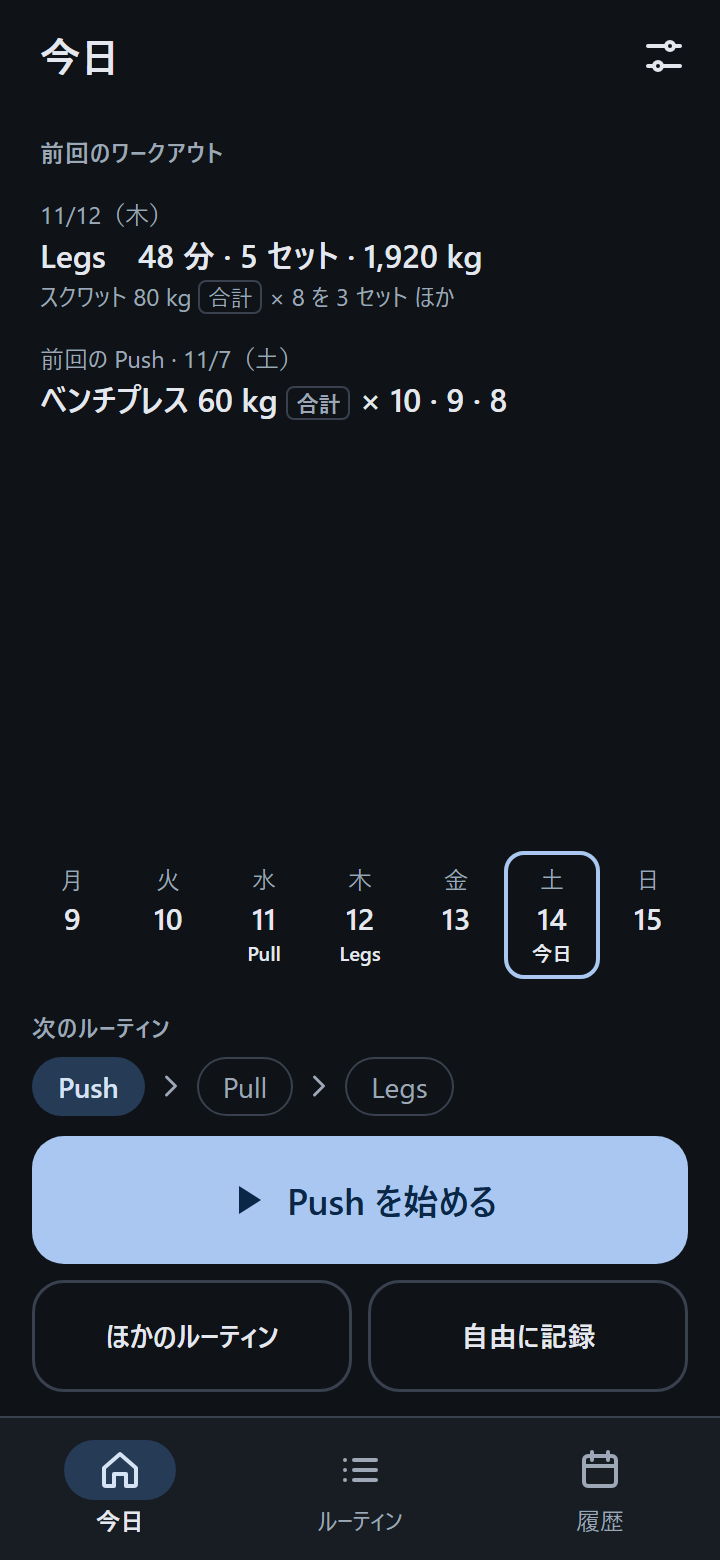
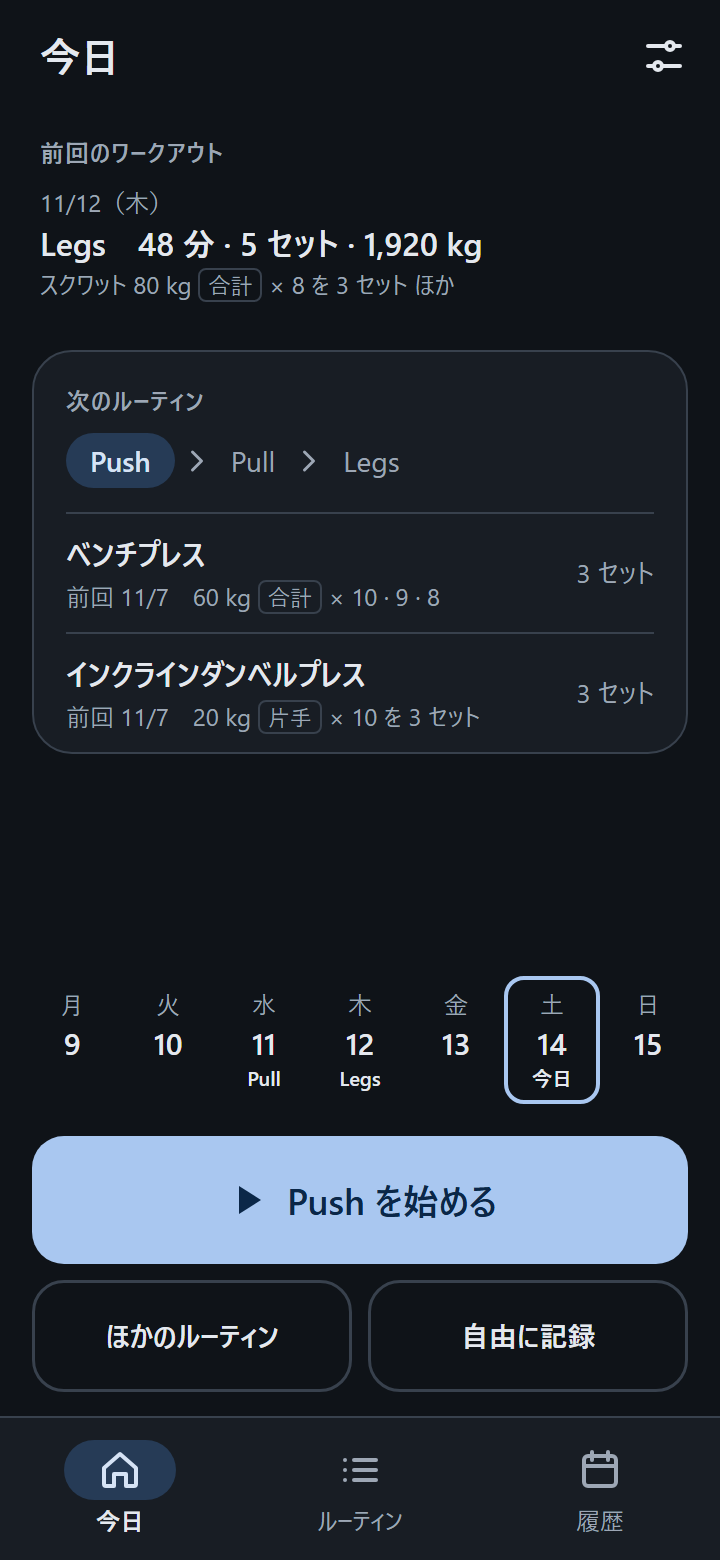
docs(apps/training-log): ホームのデザインに次のルーティンの中身を加える
ホームの空いていた真ん中に、次のルーティンの中身のカードを置いた。
見出しにルーティンの並びを入れ、種目ごとに前回の記録と予定のセット数を出す。
上にあった「前回の Push」と、下の「次のルーティン」の並びは、内容が重なるので外した。
種目が多いとき（先頭の 2 種目と「ほか N 種目」）の画面 C1f を追加した。

diff --git a/apps/training-log/design/canvas/C1f_home_long.dc.html b/apps/training-log/design/canvas/C1f_home_long.dc.html
@@ -1,0 +1,113 @@
+<!doctype html>
+<html lang="ja">
+<head>
+<meta charset="utf-8">
+<title>C ドック — ホーム（種目が多いとき）</title>
+<script src="./support.js"></script>
+</head>
+<body>
+<x-dc>
+<helmet>
+<style>
+*{box-sizing:border-box;margin:0;padding:0}
+button{font:inherit;color:inherit;background:none;border:0;text-align:inherit;cursor:pointer}
+.app{--bg:#F4F6F9;--sf:#FFFFFF;--sf2:#E4E9F0;--fg:#141A22;--sub:#4D5766;--pri:#1F3A5F;--onpri:#FFFFFF;--con:#D6E3F5;--oncon:#0D2440;--line:#C5CCD6;--err:#BA1A1A;--inv:#2B3340;--oninv:#F1F3F7;--invact:#A9C7F0;width:360px;height:780px;overflow:hidden;position:relative;background:var(--bg);color:var(--fg);display:flex;flex-direction:column;font-family:system-ui,-apple-system,'Segoe UI',Roboto,'Noto Sans JP','Yu Gothic UI',sans-serif;font-size:14px;line-height:1.4;font-variant-numeric:tabular-nums}
+.app.dark{color-scheme:dark;--bg:#0F1318;--sf:#181D24;--sf2:#242B34;--fg:#E4E8EE;--sub:#9DA7B5;--pri:#A9C7F0;--onpri:#0B2748;--con:#263B56;--oncon:#D6E3F5;--line:#38414D;--err:#FFB4AB;--inv:#E4E8EE;--oninv:#141A22;--invact:#1F3A5F}
+.scr{flex:1;min-height:0;overflow:hidden;display:flex;flex-direction:column}
+.i{width:24px;height:24px;fill:none;stroke:currentColor;stroke-width:2;stroke-linecap:round;stroke-linejoin:round;flex:none}
+.i.f{fill:currentColor;stroke:none}
+.i.s{width:18px;height:18px}
+.sub{color:var(--sub)}
+.bar{height:56px;flex:none;display:flex;align-items:center;padding:0 4px;gap:4px}
+.bar .ttl{font-size:20px;font-weight:600;flex:1;padding-left:16px}
+.ib{width:48px;height:48px;display:grid;place-items:center;border-radius:50%;flex:none}
+.tag{font-size:11px;font-style:normal;border:1px solid var(--line);border-radius:4px;padding:0 4px;color:var(--sub);white-space:nowrap}
+.btn{display:flex;align-items:center;justify-content:center;gap:8px;width:100%;min-height:56px;border-radius:16px;font-size:16px;font-weight:700;padding:0 20px;text-align:center}
+.btn.fill{background:var(--pri);color:var(--onpri)}
+.btn.line{border:1.5px solid var(--line)}
+.nav{height:72px;flex:none;display:flex;background:var(--sf);border-top:1px solid var(--line)}
+.nav button{flex:1;display:flex;flex-direction:column;align-items:center;justify-content:center;gap:2px;font-size:12px;color:var(--sub);text-align:center}
+.nav button span{width:56px;height:30px;border-radius:15px;display:grid;place-items:center}
+.nav .on{color:var(--fg);font-weight:700}
+.nav .on span{background:var(--con);color:var(--oncon)}
+.h{font-size:12px;font-weight:700;color:var(--sub);letter-spacing:.04em}
+.grow{flex:1}
+.info{padding:12px 20px 0}
+.info .e{margin-top:8px}
+.info .e small{display:block;font-size:12px;color:var(--sub)}
+.info .e b{display:block;font-size:16px;margin:1px 0}
+.next{margin:24px 16px 0;background:var(--sf);border:1px solid var(--line);border-radius:20px;padding:16px 16px 0}
+.next .seq{display:flex;align-items:center;gap:2px;margin:8px 0 12px;font-size:14px;color:var(--sub)}
+.next .seq span{padding:4px 6px}
+.next .seq .on{padding:4px 12px;border-radius:999px;background:var(--con);color:var(--oncon);font-weight:700}
+.next .ex{display:flex;align-items:center;gap:12px;min-height:60px;border-top:1px solid var(--line)}
+.next .ex .t{flex:1;min-width:0}
+.next .ex .t b{display:block;font-size:15px}
+.next .ex .t small{font-size:12px;color:var(--sub)}
+.next .ex .n{font-size:13px;color:var(--sub);white-space:nowrap}
+.next .rest{min-height:44px;display:flex;align-items:center;border-top:1px solid var(--line);font-size:13px;color:var(--sub)}
+.week{display:grid;grid-template-columns:repeat(7,1fr);margin:0 12px 4px}
+.week button{min-height:64px;padding:6px 0;border-radius:10px;color:var(--sub);text-align:center;font-size:12px}
+.week b{display:block;font-size:15px;color:var(--fg)}
+.week i{display:block;font-style:normal;font-size:10px;height:14px;font-weight:700;color:var(--fg)}
+.week .today{outline:2px solid var(--pri);outline-offset:-2px}
+.pad16{margin:12px 16px 12px}
+.two{display:grid;grid-template-columns:1fr 1fr;gap:8px;margin-top:8px}
+</style>
+</helmet>
+<svg width="0" height="0" style="position:absolute" aria-hidden="true">
+  <symbol id="right" viewBox="0 0 24 24"><path d="M9 6l6 6-6 6"></path></symbol>
+  <symbol id="play" viewBox="0 0 24 24"><path d="M8 5l11 7-11 7z"></path></symbol>
+  <symbol id="home" viewBox="0 0 24 24"><path d="M4 11l8-7 8 7v8a1 1 0 0 1-1 1h-4v-6H9v6H5a1 1 0 0 1-1-1z"></path></symbol>
+  <symbol id="list" viewBox="0 0 24 24"><path d="M9 7h11M9 12h11M9 17h11M4.5 7h.01M4.5 12h.01M4.5 17h.01"></path></symbol>
+  <symbol id="cal" viewBox="0 0 24 24"><rect x="4" y="5" width="16" height="15" rx="2"></rect><path d="M4 10h16M8 3v4M16 3v4"></path></symbol>
+  <symbol id="tune" viewBox="0 0 24 24"><path d="M4 7h9M17 7h3M4 17h3M11 17h9"></path><circle cx="15" cy="7" r="2"></circle><circle cx="9" cy="17" r="2"></circle></symbol>
+</svg>
+<div class="app {{themeClass}}">
+  <div class="bar"><div class="ttl">今日</div><button type="button" class="ib" aria-label="設定"><svg class="i" aria-hidden="true"><use href="#tune"></use></svg></button></div>
+  <div class="scr">
+    <div class="info">
+      <div class="h">前回のワークアウト</div>
+      <div class="e"><small>11/12（木）</small><b>Day B　58 分 · 18 セット · 7,860 kg</b><small>ラットプルダウン 55 kg <i class="tag">合計</i> × 10 を 3 セット ほか</small></div>
+    </div>
+    <div class="next">
+      <div class="h">次のルーティン</div>
+      <div class="seq"><span class="on">Day A</span><svg class="i s" aria-hidden="true"><use href="#right"></use></svg><span>Day B</span></div>
+      <div class="ex"><div class="t"><b>スクワット</b><small>前回 11/9　80 kg <i class="tag">合計</i> × 8 を 3 セット</small></div><span class="n">3 セット</span></div>
+      <div class="ex"><div class="t"><b>ベンチプレス</b><small>前回 11/9　60 kg <i class="tag">合計</i> × 10 · 9 · 8</small></div><span class="n">3 セット</span></div>
+      <div class="rest">ほか 4 種目</div>
+    </div>
+    <div class="grow"></div>
+    <div class="week">
+      <button type="button" aria-label="11月9日 Day A">月<b>9</b><i>Day A</i></button>
+      <button type="button" aria-label="11月10日">火<b>10</b><i></i></button>
+      <button type="button" aria-label="11月11日">水<b>11</b><i></i></button>
+      <button type="button" aria-label="11月12日 Day B">木<b>12</b><i>Day B</i></button>
+      <button type="button" aria-label="11月13日">金<b>13</b><i></i></button>
+      <button type="button" class="today" aria-label="11月14日 今日">土<b>14</b><i>今日</i></button>
+      <button type="button" aria-label="11月15日">日<b>15</b><i></i></button>
+    </div>
+    <div class="pad16">
+      <button type="button" class="btn fill" style="min-height:64px;font-size:18px"><svg class="i f" aria-hidden="true"><use href="#play"></use></svg>Day A を始める</button>
+      <div class="two">
+        <button type="button" class="btn line" style="font-size:14px">ほかのルーティン</button>
+        <button type="button" class="btn line" style="font-size:14px">自由に記録</button>
+      </div>
+    </div>
+  </div>
+  <div class="nav">
+    <button type="button" class="on"><span><svg class="i" aria-hidden="true"><use href="#home"></use></svg></span>今日</button>
+    <button type="button"><span><svg class="i" aria-hidden="true"><use href="#list"></use></svg></span>ルーティン</button>
+    <button type="button"><span><svg class="i" aria-hidden="true"><use href="#cal"></use></svg></span>履歴</button>
+  </div>
+</div>
+</x-dc>
+<script type="text/x-dc" data-dc-script data-props='{"dark":{"editor":"boolean","default":false},"$preview":{"width":360,"height":780}}'>
+class Component extends DCLogic {
+  renderVals() {
+    return { themeClass: this.props.dark ? 'dark' : '' };
+  }
+}
+</script>
+</body>
+</html>

diff --git a/apps/training-log/design/canvas/C1_home.dc.html b/apps/training-log/design/canvas/C1_home.dc.html
@@ -32,19 +32,26 @@ button{font:inherit;color:inherit;background:none;border:0;text-align:inherit;cu
 .nav .on span{background:var(--con);color:var(--oncon)}
 .h{font-size:12px;font-weight:700;color:var(--sub);letter-spacing:.04em}
 .grow{flex:1}
-.info{padding:12px 20px 0;display:flex;flex-direction:column;gap:14px}
+.info{padding:12px 20px 0}
+.info .e{margin-top:8px}
 .info .e small{display:block;font-size:12px;color:var(--sub)}
 .info .e b{display:block;font-size:16px;margin:1px 0}
+.next{margin:24px 16px 0;background:var(--sf);border:1px solid var(--line);border-radius:20px;padding:16px 16px 0}
+.next .seq{display:flex;align-items:center;gap:2px;margin:8px 0 12px;font-size:14px;color:var(--sub)}
+.next .seq span{padding:4px 6px}
+.next .seq .on{padding:4px 12px;border-radius:999px;background:var(--con);color:var(--oncon);font-weight:700}
+.next .ex{display:flex;align-items:center;gap:12px;min-height:60px;border-top:1px solid var(--line)}
+.next .ex .t{flex:1;min-width:0}
+.next .ex .t b{display:block;font-size:15px}
+.next .ex .t small{font-size:12px;color:var(--sub)}
+.next .ex .n{font-size:13px;color:var(--sub);white-space:nowrap}
+.next .rest{min-height:44px;display:flex;align-items:center;border-top:1px solid var(--line);font-size:13px;color:var(--sub)}
 .week{display:grid;grid-template-columns:repeat(7,1fr);margin:0 12px 4px}
 .week button{min-height:64px;padding:6px 0;border-radius:10px;color:var(--sub);text-align:center;font-size:12px}
 .week b{display:block;font-size:15px;color:var(--fg)}
 .week i{display:block;font-style:normal;font-size:10px;height:14px;font-weight:700;color:var(--fg)}
 .week .today{outline:2px solid var(--pri);outline-offset:-2px}
-.cyc{display:flex;align-items:center;gap:4px;margin:6px 16px 10px;font-size:14px}
-.cyc span{padding:4px 12px;border-radius:999px;border:1px solid var(--line);color:var(--sub)}
-.cyc .on{background:var(--con);color:var(--oncon);border-color:transparent;font-weight:700}
-.cyc .i{color:var(--sub)}
-.pad16{margin:0 16px}
+.pad16{margin:12px 16px 12px}
 .two{display:grid;grid-template-columns:1fr 1fr;gap:8px;margin-top:8px}
 </style>
 </helmet>
@@ -62,7 +69,12 @@ button{font:inherit;color:inherit;background:none;border:0;text-align:inherit;cu
     <div class="info">
       <div class="h">前回のワークアウト</div>
       <div class="e"><small>11/12（木）</small><b>Legs　48 分 · 5 セット · 1,920 kg</b><small>スクワット 80 kg <i class="tag">合計</i> × 8 を 3 セット ほか</small></div>
-      <div class="e"><small>前回の Push · 11/7（土）</small><b>ベンチプレス 60 kg <i class="tag">合計</i> × 10 · 9 · 8</b></div>
+    </div>
+    <div class="next">
+      <div class="h">次のルーティン</div>
+      <div class="seq"><span class="on">Push</span><svg class="i s" aria-hidden="true"><use href="#right"></use></svg><span>Pull</span><svg class="i s" aria-hidden="true"><use href="#right"></use></svg><span>Legs</span></div>
+      <div class="ex"><div class="t"><b>ベンチプレス</b><small>前回 11/7　60 kg <i class="tag">合計</i> × 10 · 9 · 8</small></div><span class="n">3 セット</span></div>
+      <div class="ex"><div class="t"><b>インクラインダンベルプレス</b><small>前回 11/7　20 kg <i class="tag">片手</i> × 10 を 3 セット</small></div><span class="n">3 セット</span></div>
     </div>
     <div class="grow"></div>
     <div class="week">
@@ -74,9 +86,7 @@ button{font:inherit;color:inherit;background:none;border:0;text-align:inherit;cu
       <button type="button" class="today" aria-label="11月14日 今日">土<b>14</b><i>今日</i></button>
       <button type="button" aria-label="11月15日">日<b>15</b><i></i></button>
     </div>
-    <div class="pad16 h" style="margin-top:12px">次のルーティン</div>
-    <div class="cyc"><span class="on">Push</span><svg class="i s" aria-hidden="true"><use href="#right"></use></svg><span>Pull</span><svg class="i s" aria-hidden="true"><use href="#right"></use></svg><span>Legs</span></div>
-    <div class="pad16" style="margin-bottom:12px">
+    <div class="pad16">
       <button type="button" class="btn fill" style="min-height:64px;font-size:18px"><svg class="i f" aria-hidden="true"><use href="#play"></use></svg>Push を始める</button>
       <div class="two">
         <button type="button" class="btn line" style="font-size:14px">ほかのルーティン</button>

diff --git a/apps/training-log/design/canvas/C1d_home_centered.dc.html b/apps/training-log/design/canvas/C1d_home_centered.dc.html
@@ -32,19 +32,26 @@ button{font:inherit;color:inherit;background:none;border:0;text-align:inherit;cu
 .nav .on span{background:var(--con);color:var(--oncon)}
 .h{font-size:12px;font-weight:700;color:var(--sub);letter-spacing:.04em}
 .grow{flex:1}
-.info{padding:12px 20px 0;display:flex;flex-direction:column;gap:14px}
+.info{padding:12px 20px 0}
+.info .e{margin-top:8px}
 .info .e small{display:block;font-size:12px;color:var(--sub)}
 .info .e b{display:block;font-size:16px;margin:1px 0}
+.next{margin:24px 16px 0;background:var(--sf);border:1px solid var(--line);border-radius:20px;padding:16px 16px 0}
+.next .seq{display:flex;align-items:center;gap:2px;margin:8px 0 12px;font-size:14px;color:var(--sub)}
+.next .seq span{padding:4px 6px}
+.next .seq .on{padding:4px 12px;border-radius:999px;background:var(--con);color:var(--oncon);font-weight:700}
+.next .ex{display:flex;align-items:center;gap:12px;min-height:60px;border-top:1px solid var(--line)}
+.next .ex .t{flex:1;min-width:0}
+.next .ex .t b{display:block;font-size:15px}
+.next .ex .t small{font-size:12px;color:var(--sub)}
+.next .ex .n{font-size:13px;color:var(--sub);white-space:nowrap}
+.next .rest{min-height:44px;display:flex;align-items:center;border-top:1px solid var(--line);font-size:13px;color:var(--sub)}
 .week{display:grid;grid-template-columns:repeat(7,1fr);margin:0 12px 4px}
 .week button{min-height:64px;padding:6px 0;border-radius:10px;color:var(--sub);text-align:center;font-size:12px}
 .week b{display:block;font-size:15px;color:var(--fg)}
 .week i{display:block;font-style:normal;font-size:10px;height:14px;font-weight:700;color:var(--fg)}
 .week .today{outline:2px solid var(--pri);outline-offset:-2px}
-.cyc{display:flex;align-items:center;gap:4px;margin:6px 16px 10px;font-size:14px}
-.cyc span{padding:4px 12px;border-radius:999px;border:1px solid var(--line);color:var(--sub)}
-.cyc .on{background:var(--con);color:var(--oncon);border-color:transparent;font-weight:700}
-.cyc .i{color:var(--sub)}
-.pad16{margin:0 16px}
+.pad16{margin:12px 16px 12px}
 .two{display:grid;grid-template-columns:1fr 1fr;gap:8px;margin-top:8px}
 </style>
 </helmet>
@@ -62,7 +69,12 @@ button{font:inherit;color:inherit;background:none;border:0;text-align:inherit;cu
     <div class="info">
       <div class="h">前回のワークアウト</div>
       <div class="e"><small>11/12（木）</small><b>Legs　48 分 · 5 セット · 1,920 kg</b><small>スクワット 80 kg <i class="tag">合計</i> × 8 を 3 セット ほか</small></div>
-      <div class="e"><small>前回の Push · 11/7（土）</small><b>ベンチプレス 60 kg <i class="tag">合計</i> × 10 · 9 · 8</b></div>
+    </div>
+    <div class="next">
+      <div class="h">次のルーティン</div>
+      <div class="seq"><span class="on">Push</span><svg class="i s" aria-hidden="true"><use href="#right"></use></svg><span>Pull</span><svg class="i s" aria-hidden="true"><use href="#right"></use></svg><span>Legs</span></div>
+      <div class="ex"><div class="t"><b>ベンチプレス</b><small>前回 11/7　60 kg <i class="tag">合計</i> × 10 · 9 · 8</small></div><span class="n">3 セット</span></div>
+      <div class="ex"><div class="t"><b>インクラインダンベルプレス</b><small>前回 11/7　20 kg <i class="tag">片手</i> × 10 を 3 セット</small></div><span class="n">3 セット</span></div>
     </div>
     <div class="grow"></div>
     <div class="week">
@@ -74,9 +86,7 @@ button{font:inherit;color:inherit;background:none;border:0;text-align:inherit;cu
       <button type="button" aria-label="11月16日">月<b>16</b><i></i></button>
       <button type="button" aria-label="11月17日">火<b>17</b><i></i></button>
     </div>
-    <div class="pad16 h" style="margin-top:12px">次のルーティン</div>
-    <div class="cyc"><span class="on">Push</span><svg class="i s" aria-hidden="true"><use href="#right"></use></svg><span>Pull</span><svg class="i s" aria-hidden="true"><use href="#right"></use></svg><span>Legs</span></div>
-    <div class="pad16" style="margin-bottom:12px">
+    <div class="pad16">
       <button type="button" class="btn fill" style="min-height:64px;font-size:18px"><svg class="i f" aria-hidden="true"><use href="#play"></use></svg>Push を始める</button>
       <div class="two">
         <button type="button" class="btn line" style="font-size:14px">ほかのルーティン</button>

diff --git a/apps/training-log/design/canvas/C1e_home_pastday.dc.html b/apps/training-log/design/canvas/C1e_home_pastday.dc.html
@@ -32,9 +32,19 @@ button{font:inherit;color:inherit;background:none;border:0;text-align:inherit;cu
 .nav .on span{background:var(--con);color:var(--oncon)}
 .h{font-size:12px;font-weight:700;color:var(--sub);letter-spacing:.04em}
 .grow{flex:1}
-.info{padding:12px 20px 0;display:flex;flex-direction:column;gap:14px}
+.info{padding:12px 20px 0}
+.info .e{margin-top:8px}
 .info .e small{display:block;font-size:12px;color:var(--sub)}
 .info .e b{display:block;font-size:16px;margin:1px 0}
+.next{margin:24px 16px 0;background:var(--sf);border:1px solid var(--line);border-radius:20px;padding:16px 16px 0}
+.next .seq{display:flex;align-items:center;gap:2px;margin:8px 0 12px;font-size:14px;color:var(--sub)}
+.next .seq span{padding:4px 6px}
+.next .seq .on{padding:4px 12px;border-radius:999px;background:var(--con);color:var(--oncon);font-weight:700}
+.next .ex{display:flex;align-items:center;gap:12px;min-height:60px;border-top:1px solid var(--line)}
+.next .ex .t{flex:1;min-width:0}
+.next .ex .t b{display:block;font-size:15px}
+.next .ex .t small{font-size:12px;color:var(--sub)}
+.next .ex .n{font-size:13px;color:var(--sub);white-space:nowrap}
 .week{display:grid;grid-template-columns:repeat(7,1fr);margin:0 12px 4px}
 .week button{min-height:64px;padding:6px 0;border-radius:10px;color:var(--sub);text-align:center;font-size:12px}
 .week b{display:block;font-size:15px;color:var(--fg)}
@@ -78,6 +88,12 @@ button{font:inherit;color:inherit;background:none;border:0;text-align:inherit;cu
     <div class="info">
       <div class="h">前回のワークアウト</div>
       <div class="e"><small>11/12（木）</small><b>Legs　48 分 · 5 セット · 1,920 kg</b><small>スクワット 80 kg <i class="tag">合計</i> × 8 を 3 セット ほか</small></div>
+    </div>
+    <div class="next">
+      <div class="h">次のルーティン</div>
+      <div class="seq"><span class="on">Push</span><svg class="i s" aria-hidden="true"><use href="#right"></use></svg><span>Pull</span><svg class="i s" aria-hidden="true"><use href="#right"></use></svg><span>Legs</span></div>
+      <div class="ex"><div class="t"><b>ベンチプレス</b><small>前回 11/7　60 kg <i class="tag">合計</i> × 10 · 9 · 8</small></div><span class="n">3 セット</span></div>
+      <div class="ex"><div class="t"><b>インクラインダンベルプレス</b><small>前回 11/7　20 kg <i class="tag">片手</i> × 10 を 3 セット</small></div><span class="n">3 セット</span></div>
     </div>
     <div class="grow"></div>
     <div class="week">

diff --git a/apps/training-log/design/README.md b/apps/training-log/design/README.md
@@ -1,6 +1,6 @@
 # training-log 画面デザイン
 
-筋トレ記録アプリ（仮称 training-log）の画面デザインです。[要件定義](../docs/requirements.md)（v1.4）と[デザインの指示書](../docs/design-brief.md)をもとに、Claude Design で作りました。案C「ドック型」を採用しています。
+筋トレ記録アプリ（仮称 training-log）の画面デザインです。[要件定義](../docs/requirements.md)（v1.5）と[デザインの指示書](../docs/design-brief.md)をもとに、Claude Design で作りました。案C「ドック型」を採用しています。
 
 ## デザインの考え方
 
@@ -32,10 +32,11 @@
 
 ### ホーム
 
-読むだけの「前回のワークアウト」は上に、操作する日付の帯と開始ボタンは下に置く。日付の帯は、設定で「その週」「今日を真ん中」「直近7日」から選べる。
+読むだけの「前回のワークアウト」と「次のルーティンの中身」は上に、操作する日付の帯と開始ボタンは下に置く。中身は、種目ごとの前回の記録と予定のセット数で、行は最大 3 行（4 種目以上は先頭の 2 種目と「ほか N 種目」）。日付の帯は、設定で「その週」「今日を真ん中」「直近7日」から選べる。
 
 <table>
 <tr><td align="center" valign="top"><a href="images/light/C1_home.png"><img src="images/light/C1_home.png" width="160" alt="ホーム（今日）"></a><br><sub>ホーム（今日）</sub></td><td align="center" valign="top"><a href="images/light/C1b_home_resume.png"><img src="images/light/C1b_home_resume.png" width="160" alt="ホーム（途中のワークアウトあり）"></a><br><sub>ホーム（途中のワークアウトあり）</sub></td><td align="center" valign="top"><a href="images/light/C1c_home_empty.png"><img src="images/light/C1c_home_empty.png" width="160" alt="ホーム（はじめて）"></a><br><sub>ホーム（はじめて）</sub></td><td align="center" valign="top"><a href="images/light/C1d_home_centered.png"><img src="images/light/C1d_home_centered.png" width="160" alt="ホーム（今日を真ん中）"></a><br><sub>ホーム（今日を真ん中）</sub></td><td align="center" valign="top"><a href="images/light/C1e_home_pastday.png"><img src="images/light/C1e_home_pastday.png" width="160" alt="ホーム（過去の日を始める）"></a><br><sub>ホーム（過去の日を始める）</sub></td></tr>
+<tr><td align="center" valign="top"><a href="images/light/C1f_home_long.png"><img src="images/light/C1f_home_long.png" width="160" alt="ホーム（種目が多いとき）"></a><br><sub>ホーム（種目が多いとき）</sub></td></tr>
 </table>
 
 <details>
@@ -43,6 +44,7 @@
 
 <table>
 <tr><td align="center" valign="top"><a href="images/dark/C1_home.png"><img src="images/dark/C1_home.png" width="160" alt="ホーム（今日）"></a><br><sub>ホーム（今日）</sub></td><td align="center" valign="top"><a href="images/dark/C1b_home_resume.png"><img src="images/dark/C1b_home_resume.png" width="160" alt="ホーム（途中のワークアウトあり）"></a><br><sub>ホーム（途中のワークアウトあり）</sub></td><td align="center" valign="top"><a href="images/dark/C1c_home_empty.png"><img src="images/dark/C1c_home_empty.png" width="160" alt="ホーム（はじめて）"></a><br><sub>ホーム（はじめて）</sub></td><td align="center" valign="top"><a href="images/dark/C1d_home_centered.png"><img src="images/dark/C1d_home_centered.png" width="160" alt="ホーム（今日を真ん中）"></a><br><sub>ホーム（今日を真ん中）</sub></td><td align="center" valign="top"><a href="images/dark/C1e_home_pastday.png"><img src="images/dark/C1e_home_pastday.png" width="160" alt="ホーム（過去の日を始める）"></a><br><sub>ホーム（過去の日を始める）</sub></td></tr>
+<tr><td align="center" valign="top"><a href="images/dark/C1f_home_long.png"><img src="images/dark/C1f_home_long.png" width="160" alt="ホーム（種目が多いとき）"></a><br><sub>ホーム（種目が多いとき）</sub></td></tr>
 </table>
 
 </details>
